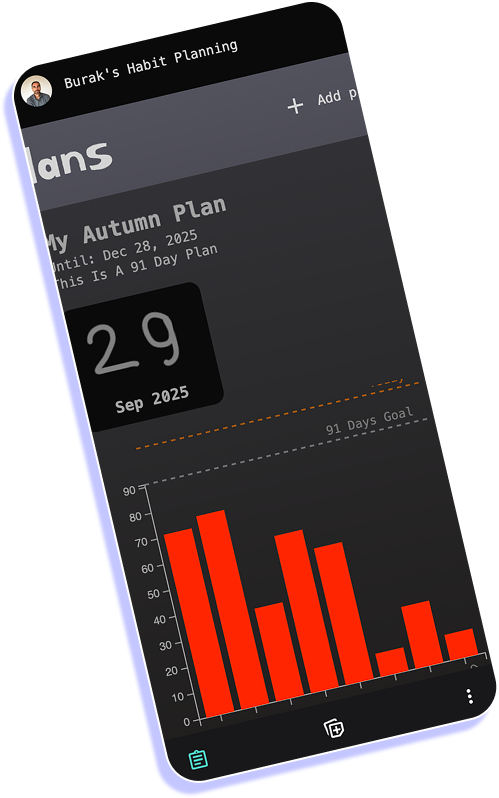
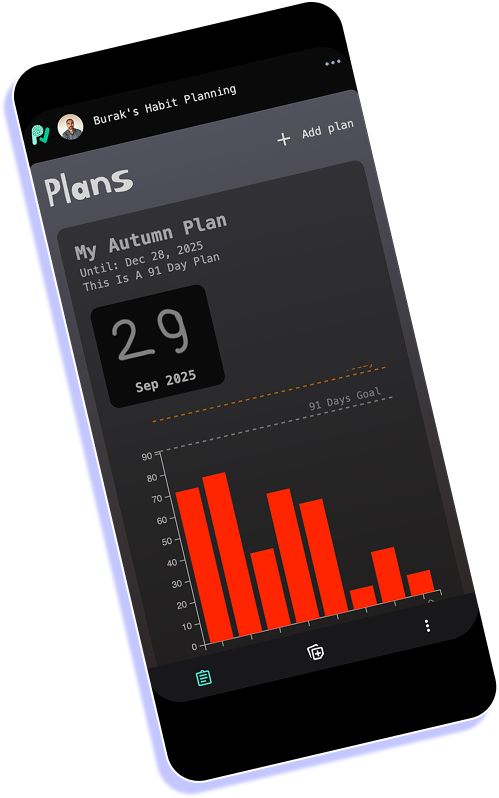
refactor:add a separate works link and implement structure for detail pages

Changed region(s): [[0.0301, 0.0602, 1.0, 0.9925], [0.6012, 0.4812, 0.8417, 0.5414], [0.4509, 0.0301, 0.481, 0.0602]]

diff --git a/src/content.config.ts b/src/content.config.ts
@@ -15,6 +15,7 @@ const posts = defineCollection({
       updatedAt: z.coerce.date().optional(),
       published: z.boolean(),
       pinned: z.boolean(),
+      useTemplate: z.boolean().optional().default(true),
       category: z.enum(["blog", "work", "author", "home-intro"]),
       excerptTemplate: z
         .enum([
